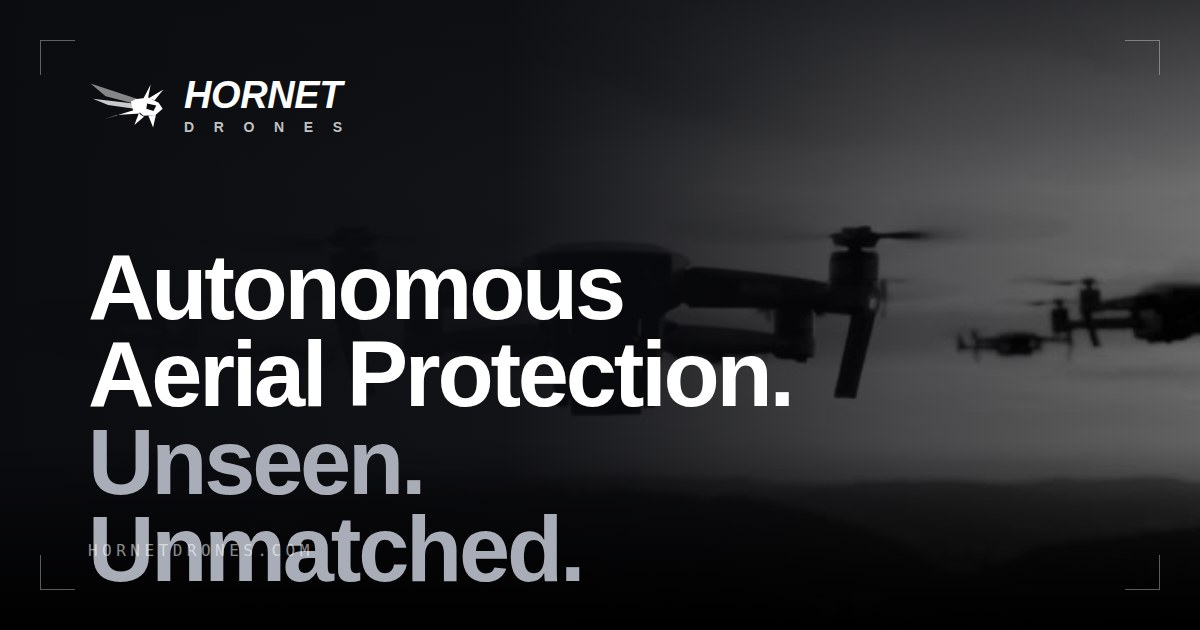
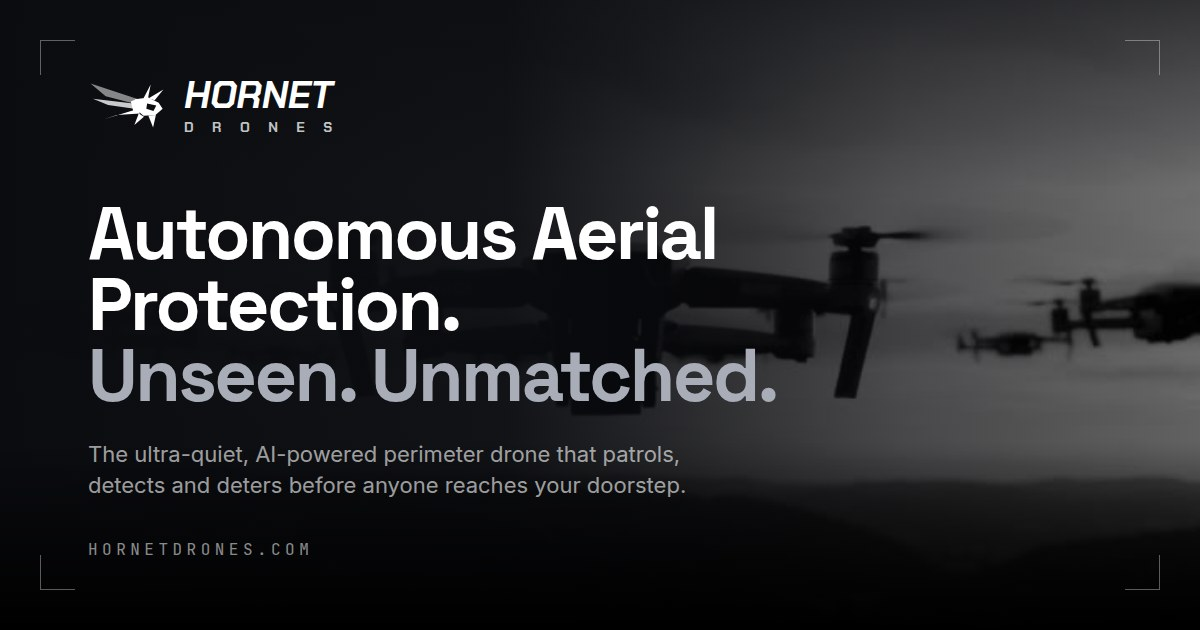
perf: self-host the brand fonts; share image set in the real typefaces
Chakra Petch, Space Grotesk, Inter and JetBrains Mono now ship from
this origin via Fontsource (latin subsets only), bundled by Vite. No
request to Google on any page, so the CSP loses both Google origins
and the privacy notice's "no third parties" claim is now literally
true. The Open Graph image is re-rendered with the same files, so a
shared link matches the site.

Claude-Session: https://claude.ai/code/session_011i5DM8RTUUXiVfnbGpUXYt

Changed region(s): [[0.0617, 0.3317, 0.6783, 0.7841], [0.0617, 0.8143, 0.4933, 0.9349], [0.1542, 0.1206, 0.3083, 0.2111]]

diff --git a/projects/hornet-drones/src/index.css b/projects/hornet-drones/src/index.css
@@ -1,3 +1,23 @@
+/*
+ * Fonts are self-hosted (Fontsource packages, bundled by Vite): no request to
+ * Google, nothing for a consent banner to cover, and the display face is on
+ * the same origin as everything else.
+ */
+@import '@fontsource/chakra-petch/latin-600.css';
+@import '@fontsource/chakra-petch/latin-700.css';
+@import '@fontsource/chakra-petch/latin-600-italic.css';
+@import '@fontsource/chakra-petch/latin-700-italic.css';
+@import '@fontsource/inter/latin-400.css';
+@import '@fontsource/inter/latin-500.css';
+@import '@fontsource/inter/latin-600.css';
+@import '@fontsource/inter/latin-700.css';
+@import '@fontsource/jetbrains-mono/latin-400.css';
+@import '@fontsource/jetbrains-mono/latin-500.css';
+@import '@fontsource/jetbrains-mono/latin-700.css';
+@import '@fontsource/space-grotesk/latin-500.css';
+@import '@fontsource/space-grotesk/latin-600.css';
+@import '@fontsource/space-grotesk/latin-700.css';
+
 @tailwind base;
 @tailwind components;
 @tailwind utilities;

diff --git a/projects/hornet-drones/index.html b/projects/hornet-drones/index.html
@@ -68,13 +68,6 @@
       }
     </script>
 
-    <!-- Fonts: preconnect first so the display face is not the LCP bottleneck. -->
-    <link rel="preconnect" href="https://fonts.googleapis.com" />
-    <link rel="preconnect" href="https://fonts.gstatic.com" crossorigin />
-    <link
-      href="https://fonts.googleapis.com/css2?family=Chakra+Petch:ital,wght@0,600;0,700;1,600;1,700&family=Inter:wght@400;500;600;700&family=JetBrains+Mono:wght@400;500;700&family=Space+Grotesk:wght@500;600;700&display=swap"
-      rel="stylesheet"
-    />
   </head>
   <body>
     <div id="root"></div>
